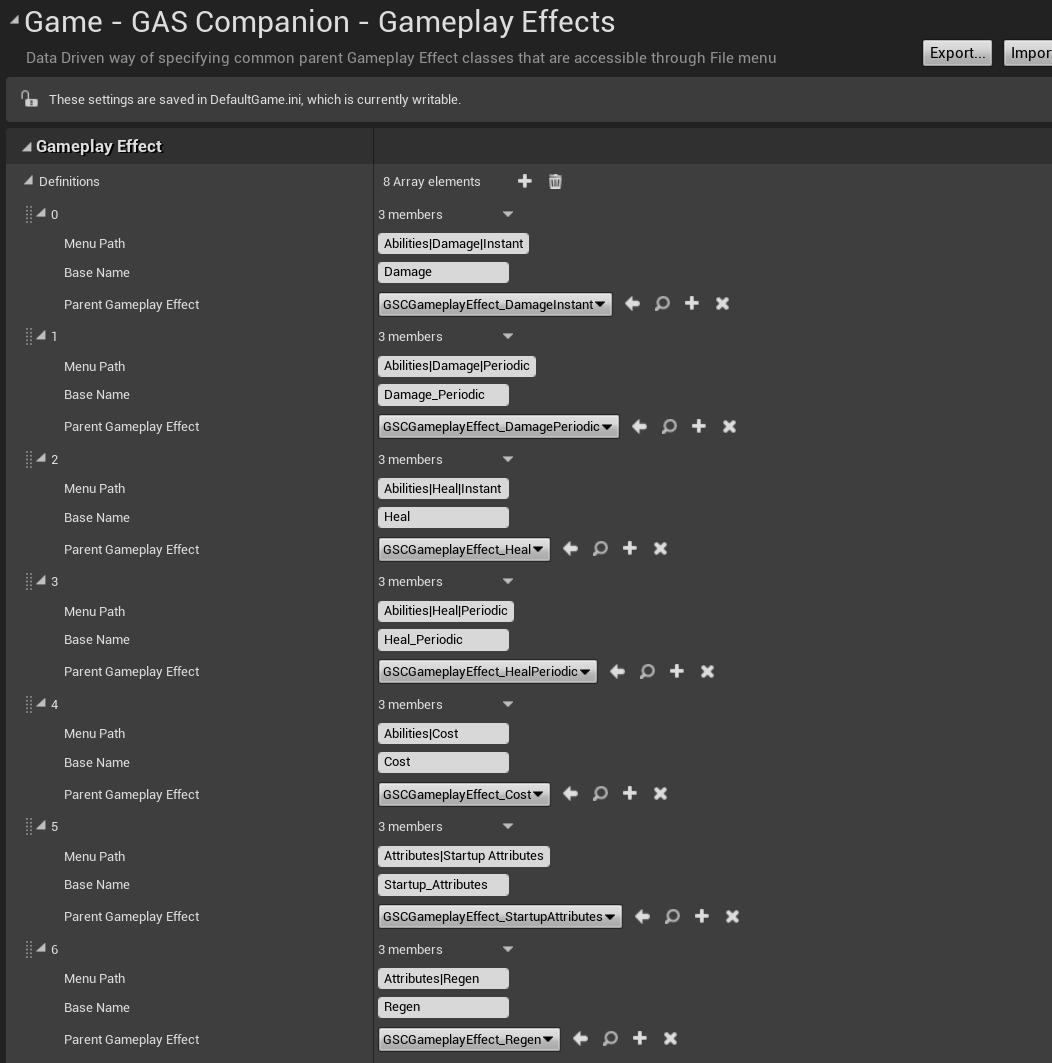
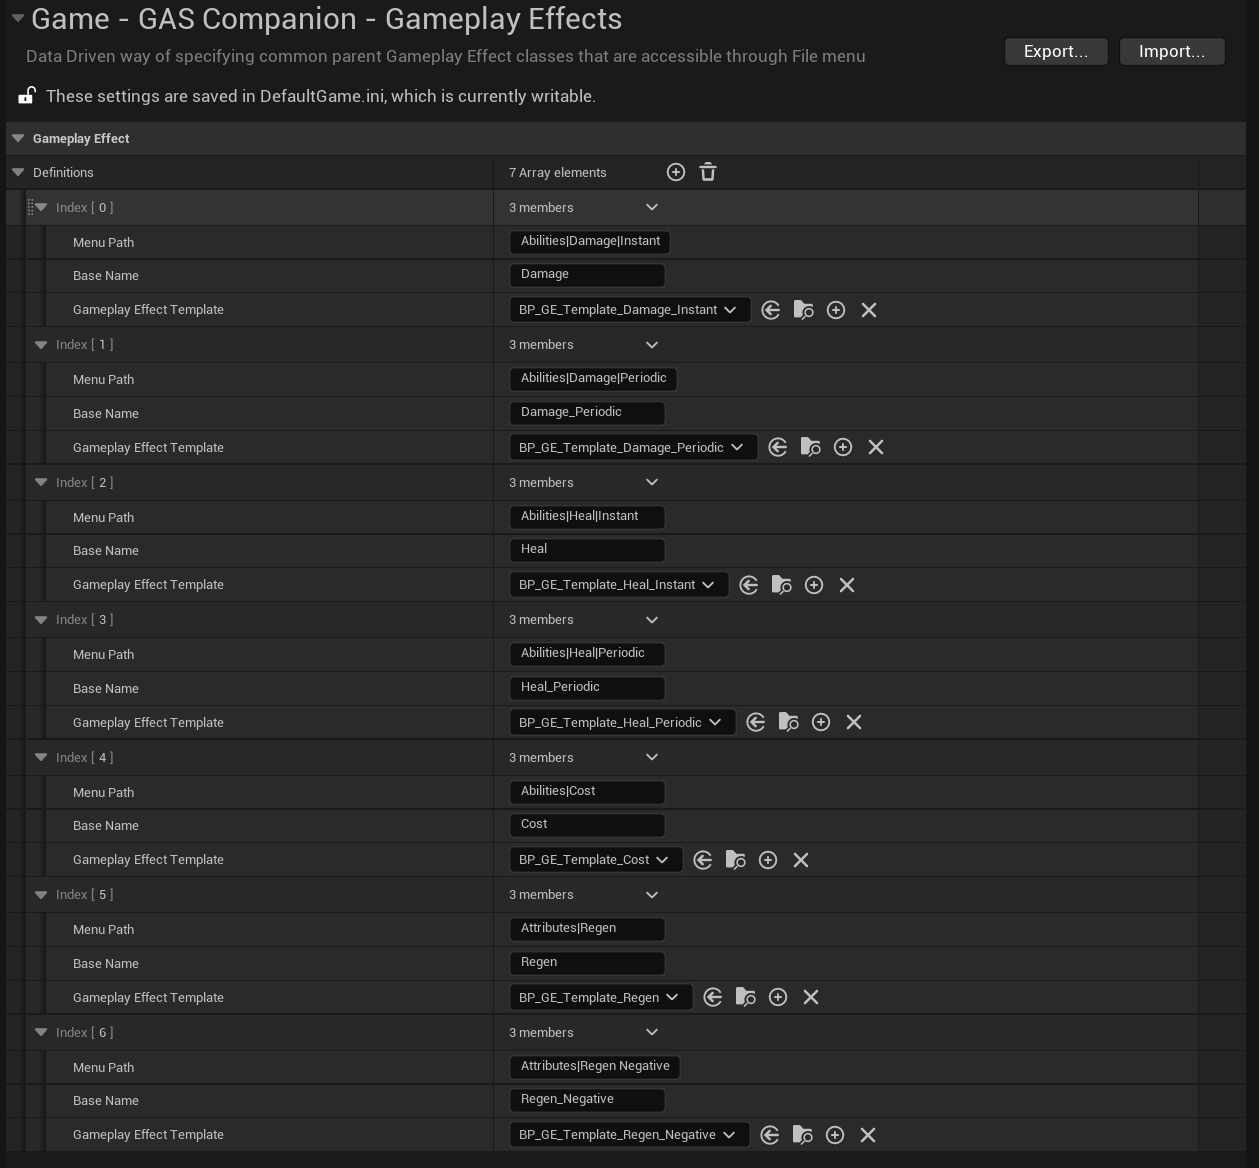
Update config pages

Changed region(s): [[0.0, 0.0, 1.0, 1.0]]

diff --git a/src/config/ge-definitions/index.md b/src/config/ge-definitions/index.md
@@ -1,0 +1,47 @@
+---
+title: Gameplay Effect Definitions
+description: Data Driven way of specifying common parent Gameplay Effect classes that are accessible through File menu
+eleventyNavigation:
+    parent: Configuration
+    key: Gameplay Effect Definitions
+    excerpt: Data Driven way of specifying common parent Gameplay Effect classes that are accessible through File menu
+    order: 3
+layout: layouts/page
+---
+
+## Gameplay Effect Definitions
+
+Similar to the [Gameplay Ability Definitions]({{ "/config/ga-definitions/" | url }}), you can do the same with Gameplay Effects.
+
+Here is the default one included in GAS Companion.
+
+![](config.png)
+
+Remember that you can create your own definitions, edit the default ones or even remove them if you'd like. This configuration is stored in `DefaultGame.ini`.
+
+## Create your own Definitions
+
+You can create your own template for Gameplay Effect and make them available via the context menu.
+
+To do so, you need to create a Blueprint child of {{ "GSCTemplate_GameplayEffectDefinition" | api }}, and modify the template as you wish. Any new Gameplay Effect created from Context Menu using this template as a base will be created using the template properties.
+
+Create Gameplay Effect will be a direct child of `UGameplayEffect`.
+
+![](config_ge_definition.png)
+
+
+| Property                  | Description       |
+| ------------------------- |-------------------|
+| Menu Path                 | Where to show this in the menu. Use "\|" for sub categories. E.g, "Custom\| Category\| Example". |
+| Base Name                 | The default BaseName of the new asset. E.g "Example_Effect" -> GE_Example_Effect                          |
+| Gameplay Effect Template   | The Parent template (child of {{ "GSCTemplate_GameplayEffectDefinition" | api }}) class to use when creating new Gameplay Effect for this definition     |
+
+
+The above example definition will add a new category to the context menu, like so:
+
+![](context_menu.png)
+
+Upon clicking the last part of the context menu tree (here "Example"), a new GE Blueprint is created named after the `Base Name` option in config.
+
+![](new_ge.png)
+*Gameplay Effect with only Modified properties displayed, based on the values defined in `BP_GE_My_Template`.*

diff --git a/src/config/ability-system-globals/index.md b/src/config/ability-system-globals/index.md
@@ -1,0 +1,39 @@
+---
+title: Configuration
+description: GAS Companion Configuration
+eleventyNavigation:
+    parent: Configuration
+    key: Ability System Globals
+    excerpt: General Configuration for GAS Companion
+    title: Ability System Globals Configuration
+    order: 1
+layout: layouts/page
+---
+
+Plugin configuration described in this page is saved and loaded from your **Config/DefaultGame.ini** file.
+
+{{ collections.all | eleventyNavigation("Core/Settings") |  eleventyNavigationToMarkdown({ showExcerpt: true }) | safe }}
+
+You can access exposed configuration for the plugin in `Project Settings > Game > GAS Companion`.
+
+Alternately, you can use the dropdown in the top right corner of the level editor.
+
+![](dropdown.png)
+
+
+### Ability System Globals (optional)
+
+Initialization of Ability System Globals for GAS is important and usually done in an Asset Manager subclass.
+
+GAS Companion does it by default in a PostEngineInit delegate (after engine is fully initialized) as a failsafe mechanism. And only do so if Ability System Globals wasn't initialized previously in the engine lifecycle.
+
+There is one configuration property that lets you customize this. If you turn on `bPreventGlobalDataInitialization` (Default is false), the editor will display the following notification, with a clickable link
+
+![](editor_notif_01.png)
+*Notification will only be displayed if current configuration for the Asset Manager Class Name is the engine's default.*
+
+Upon clicking the link, Asset Manager Class Name configuration property will be updated to use `GSCAssetManager`. This class is a direct child of `AssetManager` with a single override `StartInitialLoading()`, whose role is to call `InitGlobalData()` on Ability System Globals for GAS.
+
+![](editor_notif_02.png)
+
+This effectively result in the same behavior. In both case, `InitGlobalData()` is ensured to be called once, either from within an `AssetManager` or a little later in GAS Companion runtime module (when engine is initialized).

diff --git a/src/config/ga-definitions/index.md b/src/config/ga-definitions/index.md
@@ -23,11 +23,14 @@ The best part is that this system allows you to add your own Gameplay Ability De
 
 ![](custom_definitions_dabpng.png)
 
+
 | Property                  | Description       |
 | ------------------------- |-------------------|
-| Menu Path                 | Where to show this in the menu. Use "|" for sub categories. E.g, "Ability|Skills|Ultimate". |
+| Menu Path                 | Where to show this in the menu. Use "" for sub categories. E.g, "Ability|Skills|Ultimate". |
 | Base Name                 | The default BaseName of the new asset. E.g "Damage" -> GA_Damage                            |
 | Parent Gameplay Ability   | The Parent GameplayAbility class to use when creating new abilities for this definition     |
+
+
 
 The above example definition will add a new category to the context menu, like so:
 
